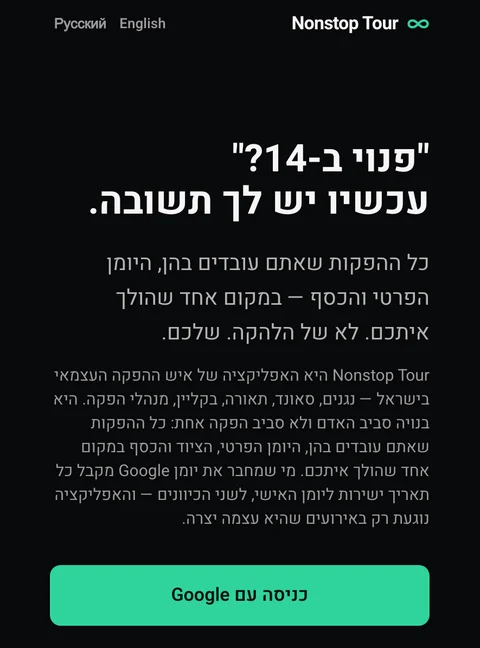
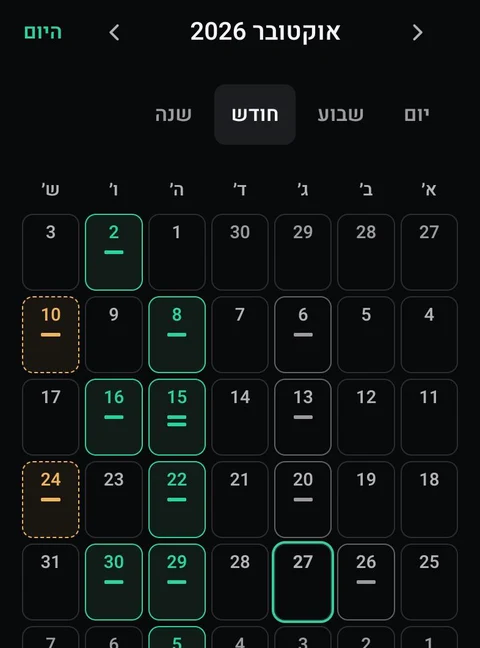
Nonstop Tour card shows the in-app calendar
Claude-Session: https://claude.ai/code/session_01JhJDeo9zSSRfaDiWBe2EDZ

diff --git a/index.html b/index.html
@@ -252,7 +252,7 @@ footer .wrap{display:flex;justify-content:space-between;align-items:center;flex-
     <span class="eyebrow reveal">עוד פרויקטים</span>
     <h2 class="reveal">אתרים ומערכות שבניתי</h2>
     <div class="projects">
-      <a class="proj reveal" href="https://nonstop-tour-app.vercel.app/he" target="_blank" rel="noopener"><div class="frame"><img src="img/nonstop-tour.webp" alt="אפליקציית Nonstop Tour" loading="lazy" width="480" height="648"></div><b>Nonstop Tour</b><p>אפליקציה לאנשי הפקה בישראל: נגנים, סאונד, תאורה ומנהלי הפקה. הופעות, ציוד, ריידר ותשלומים במקום אחד, מסונכרן ליומן Google.</p><span>לצפייה<svg width="14" height="14" aria-hidden="true"><use href="#arrow"/></svg></span></a>
+      <a class="proj reveal" href="https://nonstop-tour-app.vercel.app/he" target="_blank" rel="noopener"><div class="frame"><img src="img/nonstop-tour.webp?v=2" alt="אפליקציית Nonstop Tour" loading="lazy" width="480" height="648"></div><b>Nonstop Tour</b><p>אפליקציה לאנשי הפקה בישראל: נגנים, סאונד, תאורה ומנהלי הפקה. הופעות, ציוד, ריידר ותשלומים במקום אחד, מסונכרן ליומן Google.</p><span>לצפייה<svg width="14" height="14" aria-hidden="true"><use href="#arrow"/></svg></span></a>
       <a class="proj reveal" href="https://bana-villa.com/" target="_blank" rel="noopener"><div class="frame"><img src="img/bana-villa.webp" alt="אתר Bána Villa" loading="lazy" width="480" height="648"></div><b>Bána Villa</b><p>אתר לפרויקט של 22 וילות בוטיק עם בריכה בקופנגן, תאילנד, לקונים מישראל.</p><span>לצפייה<svg width="14" height="14" aria-hidden="true"><use href="#arrow"/></svg></span></a>
       <a class="proj reveal" href="https://hidden-hin.com/" target="_blank" rel="noopener"><div class="frame"><img src="img/hidden-hin.webp" alt="אתר Hidden Hin" loading="lazy" width="480" height="648"></div><b>Hidden Hin</b><p>אתר ל-33 וילות עם בריכה פרטית ומועדון, עם מחירים בבאט, דולר ושקל.</p><span>לצפייה<svg width="14" height="14" aria-hidden="true"><use href="#arrow"/></svg></span></a>
       <a class="proj reveal" href="demo/site-diary/" target="_blank" rel="noopener"><div class="frame"><img src="img/belectric.webp?v=2" alt="אפליקציית יומן אתר, גרסת הדגמה" loading="lazy" width="480" height="648"></div><b>יומן אתר ל-BELECTRIC</b><p>אפליקציה לניהול אתר הקמה של שדה סולארי: תעודות משלוח שה-AI קורא, מלאי, ניפוק לקבלנים עם חתימה, בטון, פאנלים ויומיות.</p><span>לצפייה בדמו, נתונים בדויים<svg width="14" height="14" aria-hidden="true"><use href="#arrow"/></svg></span></a>
